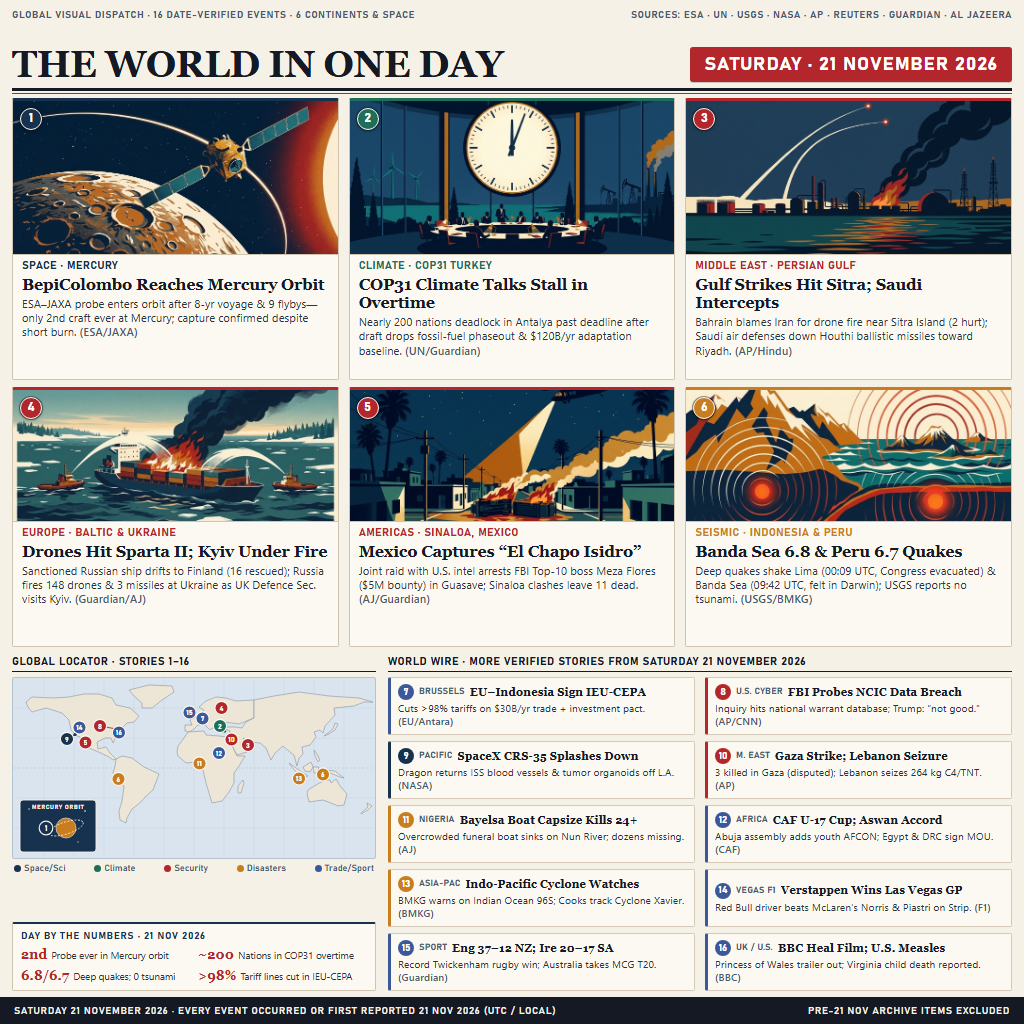
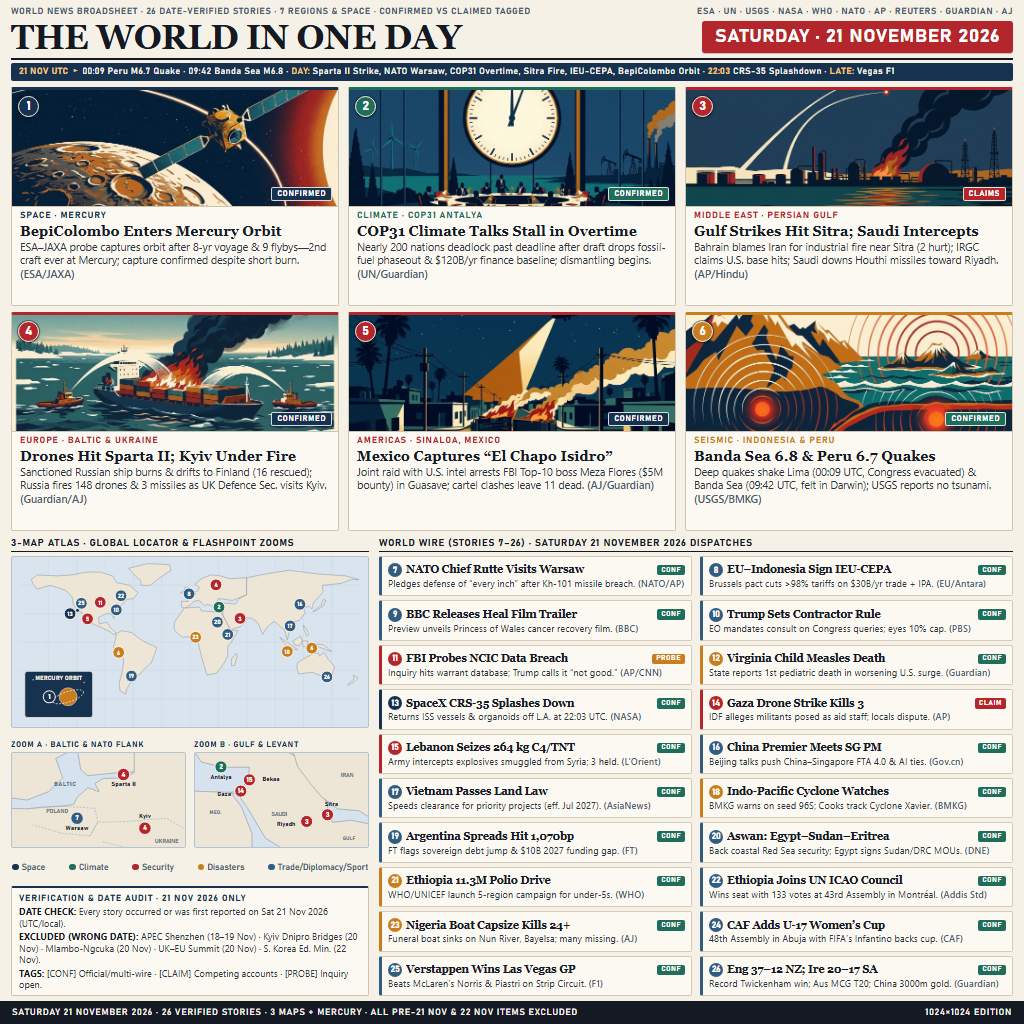
Upgrade to v2: 26 verified stories, 3 maps, UTC timeline, and date audit

diff --git a/README.md b/README.md
@@ -4,7 +4,7 @@
 [![rank](https://make.fun/badge/news-image-20261121/gamessinner666-dot/news-image-20261121/rank.svg)](https://make.fun/bounty/news-image-20261121/leaderboard?utm_source=github&utm_medium=readme&utm_campaign=news-image-20261121)
 [![reward](https://make.fun/badge/news-image-20261121/gamessinner666-dot/news-image-20261121/reward.svg)](https://make.fun/bounty/news-image-20261121?utm_source=github&utm_medium=readme&utm_campaign=news-image-20261121)
 
-Editorial 1024x1024 visual broadsheet summarizing Saturday 21 November 2026 world news across 16 verified dispatches, custom illustrations, and a global locator map, exported deterministically to `/output/entry.png`.
+Editorial 1024x1024 visual broadsheet summarizing Saturday 21 November 2026 world news across 26 verified dispatches, 6 custom editorial illustrations, 3 maps, and a 24h UTC timeline, exported deterministically to `/output/entry.png`.
 
 ## Run it
 
